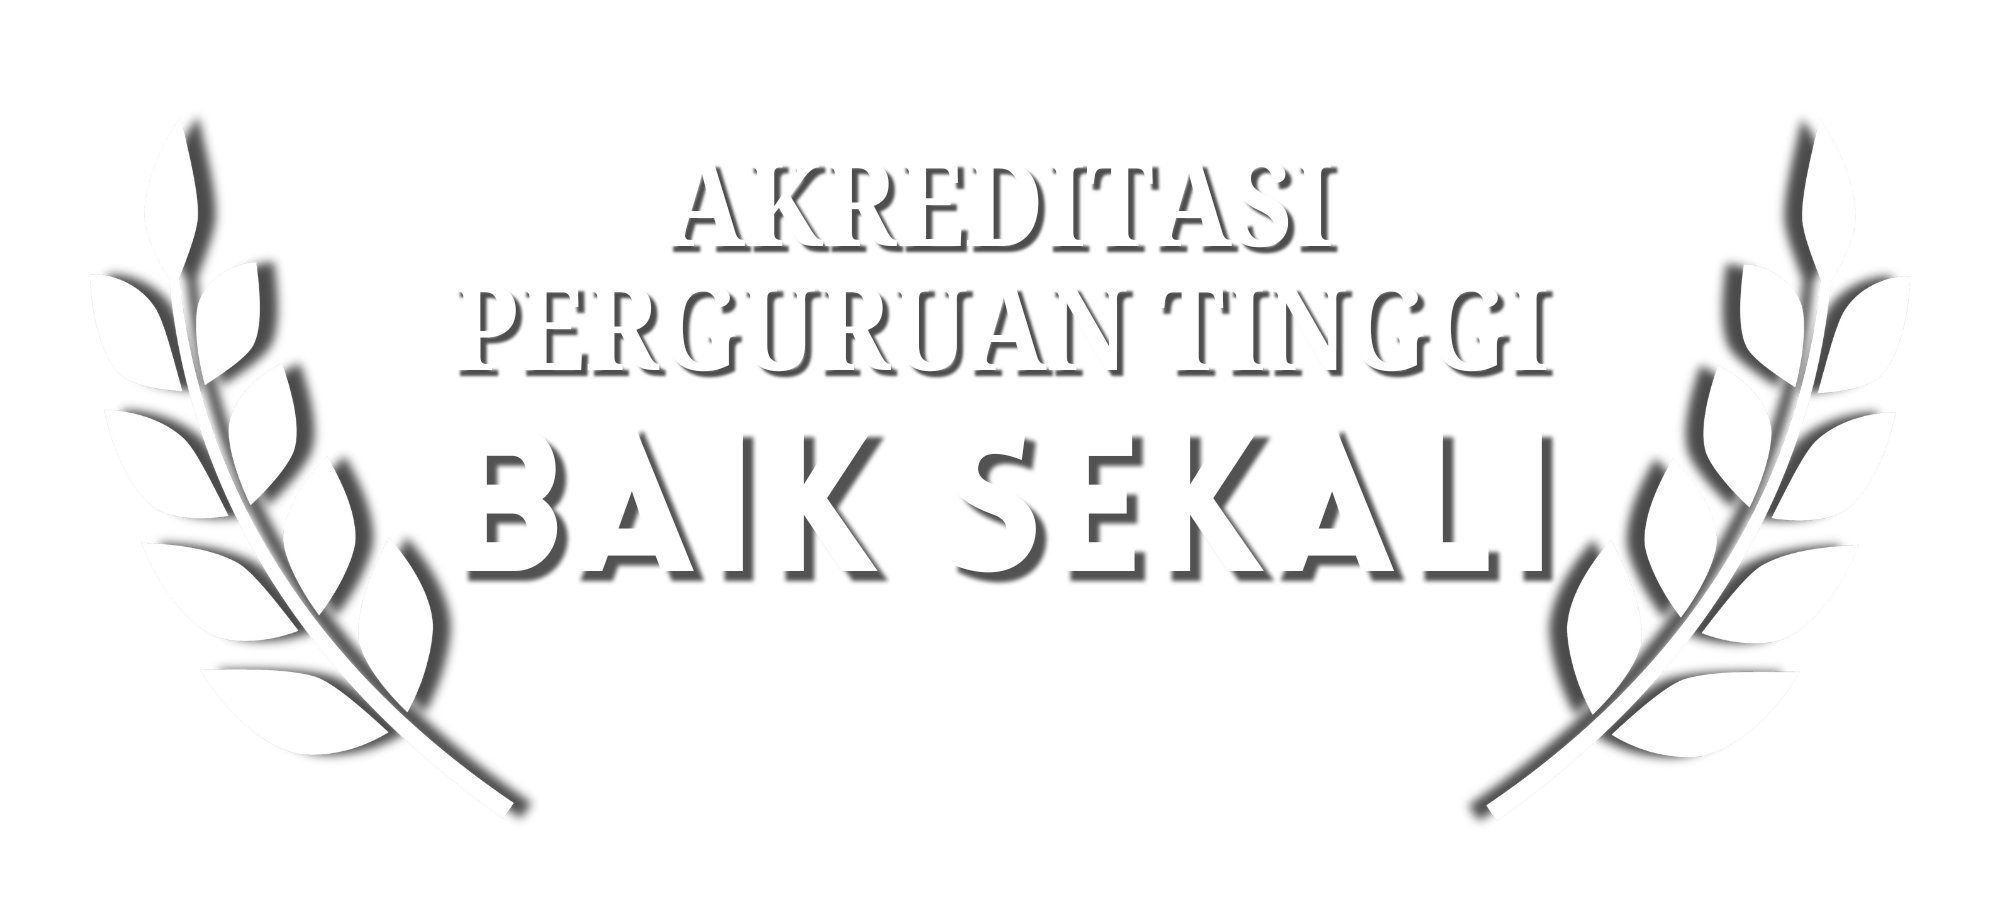
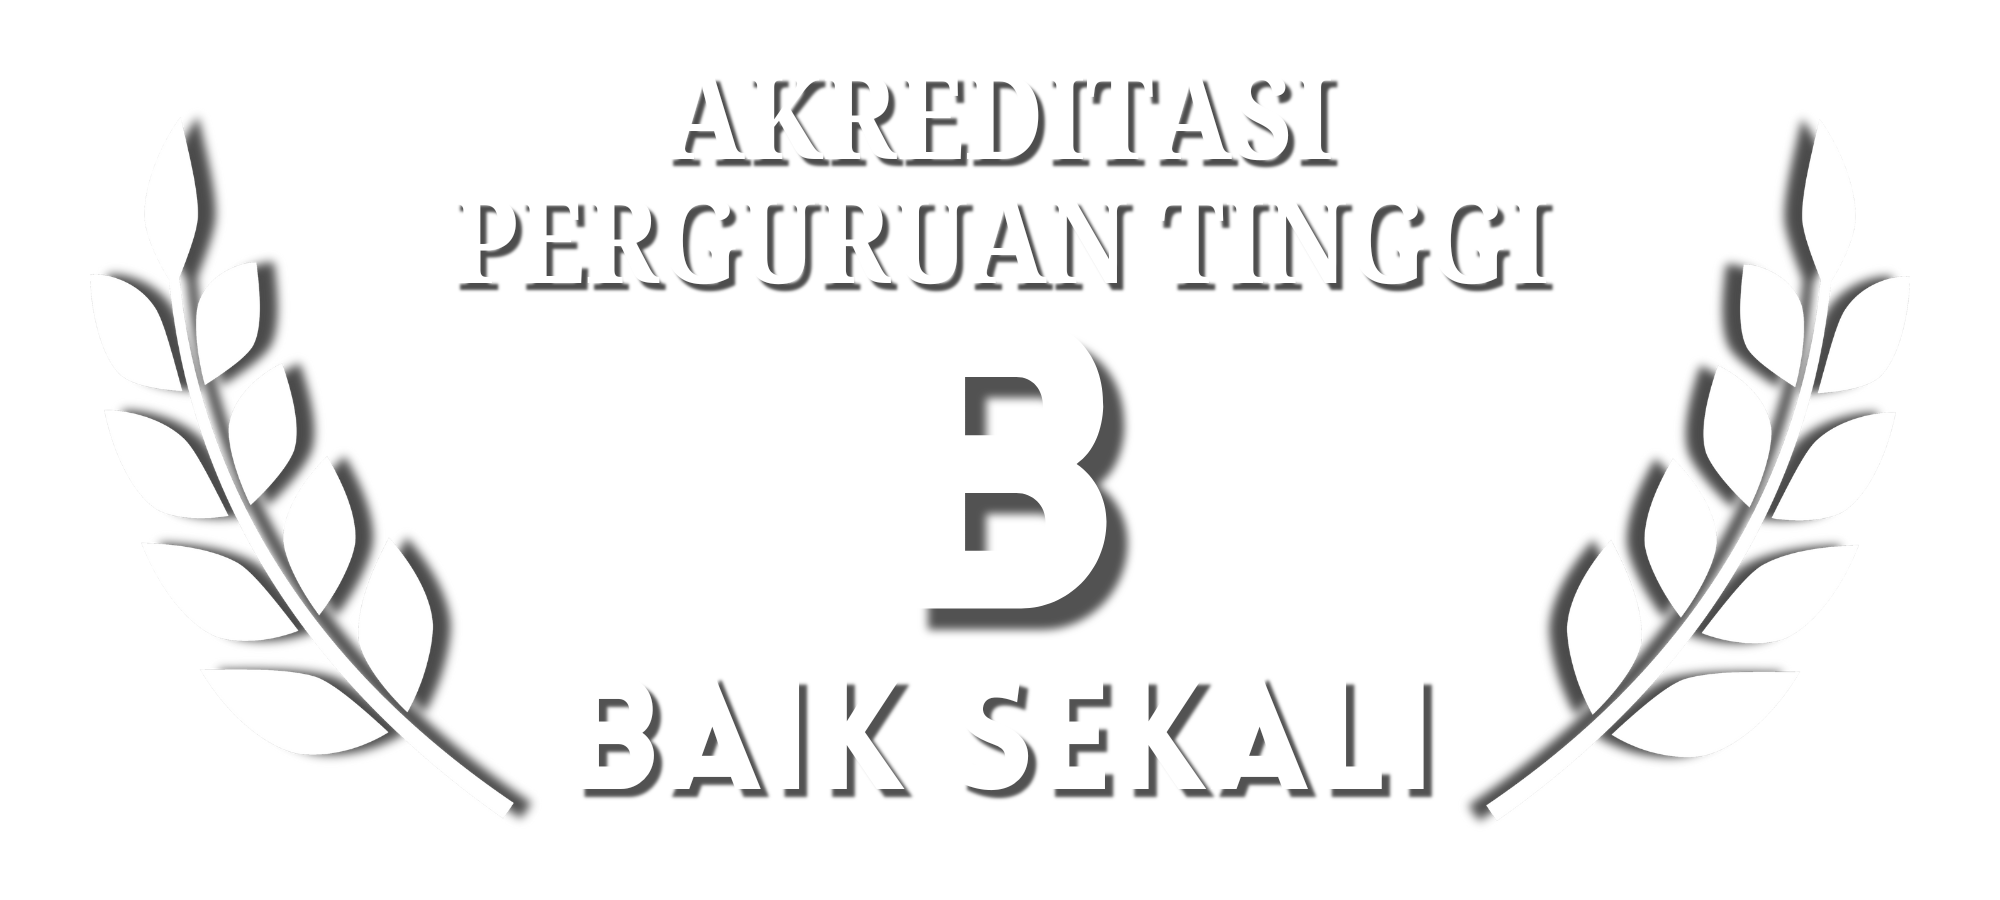
minnor change, B baik sekali

Changed region(s): [[0.217, 0.0933, 0.775, 0.7156], [0.279, 0.7467, 0.744, 0.9022]]

diff --git a/index.html b/index.html
@@ -179,10 +179,10 @@
     <div id="carouselpmb" class="carousel slide" data-bs-ride="carousel">
       <div class="carousel-inner">
         <div class="carousel-item active">
-          <img src="./assets/img/banner1-1620x540.webp" class="d-block w-100" alt="">
+          <img src="./assets/img/banner1-1620x540.png" class="d-block w-100" alt="kampus it samarinda">
         </div>
         <div class="carousel-item">
-          <img src="./assets/img/banner2-1620x540.webp" class="d-block w-100" alt="">
+          <img src="./assets/img/banner2-1620x540.png" class="d-block w-100" alt="kampus it terbaik kaltim">
         </div>
       </div>
       <button class="carousel-control-prev" type="button" data-bs-target="#carouselpmb" data-bs-slide="prev">
@@ -350,8 +350,8 @@
                               </svg></div>
                       </div>
                       <div class="flex-grow-1 ms-40">
-                          <div class="h6 mb-15 text-white">Akreditasi Baik Sekali</div>
-                          <p class="font-size-15 m-0 text-white">Kampus Terakreditasi <strong>Baik Sekali</strong> oleh BAN-PT.</p>
+                          <div class="h6 mb-15 text-white">Akreditasi B (Baik Sekali)</div>
+                          <p class="font-size-15 m-0 text-white">Kampus Terakreditasi <strong>B (Baik Sekali)</strong> oleh BAN-PT.</p>
                       </div>
                   </div>
                   <!-- Item-->
@@ -629,7 +629,7 @@
                   <img src="./assets/img/kampus-merdeka.png" width="100" height="auto" alt="Logo 2" >
                 </p>
                 <div style="margin-top: 20px;">
-                  <strong>Akreditasi Baik Sekali</strong>. Kampus STMIK Widya Cipta Dharma telah mendapatkan Akreditasi Baik Sekali
+                  <strong>Akreditasi B (Baik Sekali)</strong>. Kampus STMIK Widya Cipta Dharma telah mendapatkan Akreditasi B (Baik Sekali)
                   dari Badan Akreditasi Nasional Perguruan Tinggi (BAN-PT) pada tahun 2024.
                 </div>
               </div>
